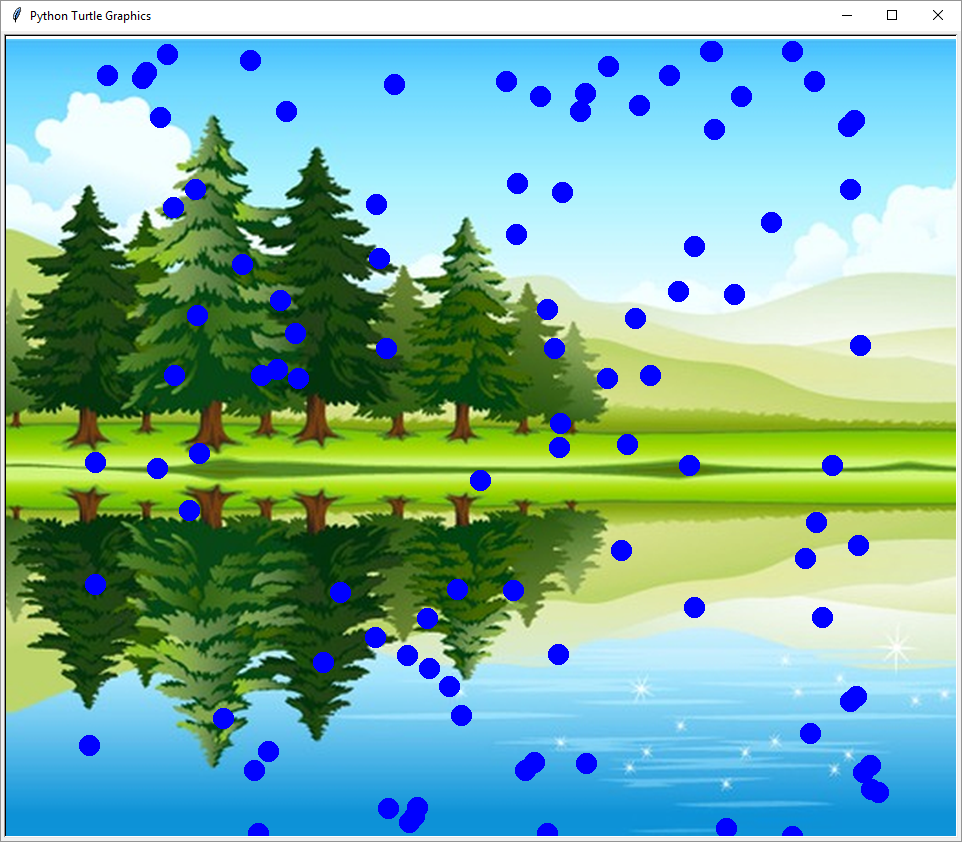
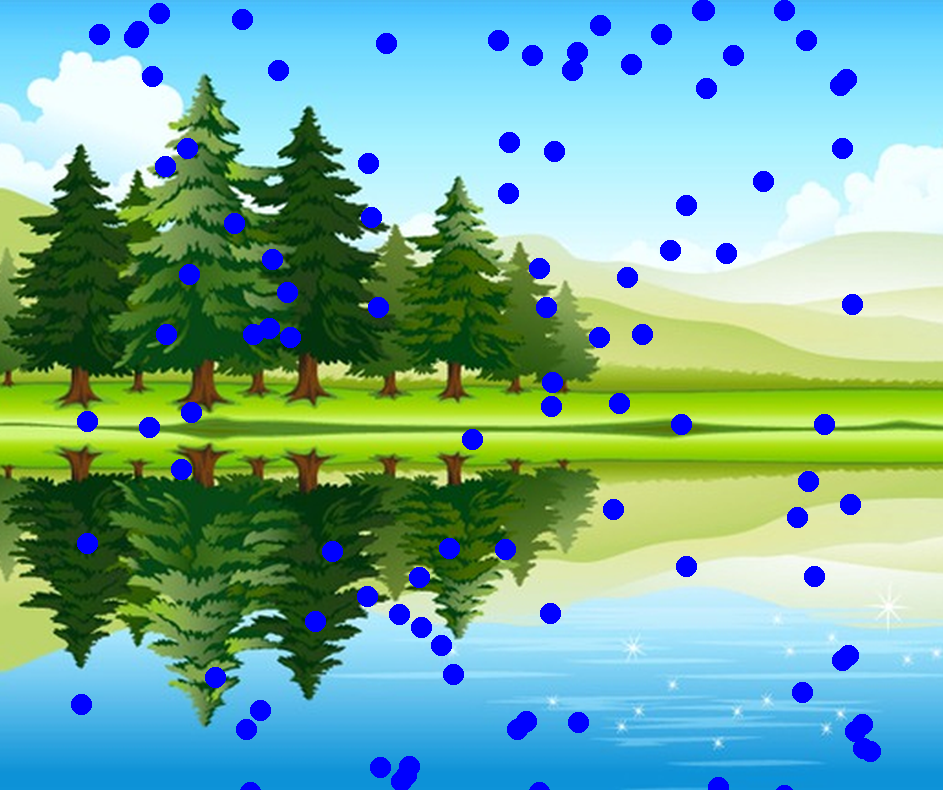
Current turtle sheet

diff --git a/python/turtle-sessions/css/turtle-sheets.css b/python/turtle-sessions/css/turtle-sheets.css
@@ -1,0 +1,81 @@
+/* @import "sheet.css"; */
+/* img {
+  width: 100%
+} */
+table {
+  width: 100%
+}
+table.key_info {
+  width: 100%;
+}
+table.key_info, .key_info td {
+  background-color: blue;
+  color: white;
+}
+
+@page {
+  size: A4;
+  margin: 1cm;
+  counter-increment: page;
+  content: "Page " counter(page);
+}
+@page {
+  @bottom-right {
+   content: counter(page) " of " counter(pages);
+  }
+}
+
+/* h3, h2 { page-break-before: always; } */
+pre, blockquote {page-break-inside: avoid;}
+
+
+body {
+  font-family: 'Trebuchet MS', 'Lucida Sans Unicode', 'Lucida Grande', 'Lucida Sans', Arial, sans-serif;
+}
+
+hr {
+  background: linear-gradient(to right, moccasin 0%, moccasin 15%, aquamarine 15%, aquamarine 45%, rgb(255, 115, 0) 45%, rgb(255, 115, 0) 60%, rgb(84, 67, 41) 60%);
+  height: 8px;
+  width: 100%;
+}
+
+figure img {
+  vertical-align: bottom;
+}
+figcaption {
+  vertical-align: top;
+  text-align: left;
+  font-size: xx-large;
+  color: saddlebrown;
+  font-weight: bolder;
+  display: inline;
+  margin: 0;
+  padding: 0;
+}
+figure {
+  margin: 0;
+  padding: 0;
+}
+pre {
+  font-size: 0.8em;
+}
+
+@page {
+  @bottom-center {
+    content: counter(page);
+    content: '';
+    display: block;
+    background: linear-gradient(to right, moccasin 0%, moccasin 15%, aquamarine 15%, aquamarine 45%, rgb(255, 115, 0) 45%, rgb(255, 115, 0) 60%, rgb(84, 67, 41) 60%);
+    height: 8px;
+    width: 100%;
+    margin-bottom: 60px;
+  }
+  @bottom-right {
+    content: ""
+  }
+}
+
+.page {
+  page-break-after: always;
+}
+

diff --git a/python/turtle-sessions/make-it-rain/turtle-make-it-rain.md b/python/turtle-sessions/make-it-rain/turtle-make-it-rain.md
@@ -39,7 +39,9 @@ t.hideturtle()
 t.penup()
 ```
 
-To draw a simple drop we can use a blue circle.
+Save this in a file name like `rain.py` and run it.
+
+To draw a simple drop we can use a blue circle. Add this:
 
 <img src="raindrop-blue-circle.png" style="margin:0; padding: 0; float: right; margin-right: 5%; border: 0; box-shadow: none">
 
@@ -54,7 +56,6 @@ t.stamp()
 `t.shape` changes the turtles shape, `t.goto` jumps to a set of coordinates.
 By using `t.stamp`, we can leave behind a stamp, an image of the turtles current shape on the canvas where it stands.
 
-Try running this.
 
 ## Drawing multiple drops
 
@@ -256,11 +257,31 @@ while True:
 
 <!-- -- id="ideas" -->
 
+### Try adding further parameters
+
+You can try using a 3rd item in the lists - for speed, or raindrop size (t.shapesize). Let's try using it for speed.
+
+When creating the drop, we can try a number between 2 and 4:
+
+<pre><code>for n in range(100):
+    drop = [random.randint(-400, 400), random.randint(-400, 400)<b>, random.randint(2,4)</b>]
+    drops.append(drop)
+</code></pre>
+
+You can then use this 3rd parameter for speed instead of -3:
+
+<pre><code>     for drop in drops:<del>
+         drop[1] -= 3</del><b>
+         drop[1] -= drop[2]</b>
+         if drop[1] < -400:
+             drop[1] = 400
+</code></pre>
+
+This now moves different drops at different speeds, giving a feeling of depth.
+
 ### Try changing the rain drops
 
-Rain drops can be snow flakes too. Try changing the shape to a triangle, or a square. You can also change the colour.
-You can put the pen down and do standard turtle drawing commands
-You can even use GIF or PNG images.
+Rain drops can be snow flakes too. Try changing the shape to a triangle, or a square using turtle commands. You can change the colour, size, put the pen down and do standard turtle drawing commands, or even use GIF or PNG images.
 
 <pre><code>t.penup()
 <del>t.shape("circle")
@@ -275,32 +296,9 @@ def draw_drop(x, y):
 
 Now when you stamp - it will be your image instead of the circles. Happy faces? Footballs? Spaceships? Stars?
 
-### Try adding further parameters
-
-You can try using a 3rd item in the lists - for speed, or raindrop size (t.shapesize). Let's try using it for speed:
-
-When creating the drop, we can try a number between 2 and 4:
-
-<pre><code>
- for n in range(100):
-     drop = [random.randint(-400, 400), random.randint(-400, 400)<b>, random.randint(2,4) </b>]
-     drops.append(drop)
-</code></pre>
-
-You can then use this 3rd parameter for speed instead of -3:
-
-<pre><code>
-     for drop in drops:<b>
-         drop[1] -= drop[2]</b>
-         if drop[1] < -400:
-             drop[1] = 400
-</code></pre>
-
-This now moves different drops at different speeds, giving a feeling of depth.
-
 ### Background images
 
-You can use a GIF or PNG as a background image:
+You can use `turtle.bgcolor` near the top of the code to change the background colour, or you can use a GIF or PNG as a background image:
 
 <pre><code>
 import turtle
@@ -313,10 +311,20 @@ turtle.tracer(0, 0)
 t = turtle.Turtle()
 </code></pre>
 
-![Lake screenshot](inspiration-rain-lake-screenshot.png) \
+<img src="inspiration-rain-lake-screenshot.png" style="height: 200px; margin-right: 10px"><img src="inspiration-space-scene.png" style="height: 200px">
 
-You can create a rainy scene, or a snowy scene. Making the dots small with a space background could turn them into stars.
-You can make a scene with a sun, and a few clouds, and a few raindrops.
+You can create a rainy, space or snowy scenes. Making the dots small with a space background. Get creative!
+
+Stars:
+
+```python
+t.shape("circle")
+t.color("lightblue")
+turtle.bgcolor("black")
+screen = turtle.Screen()
+screen.bgpic("space-background.png")
+t.shapesize(0.1)
+```
 
 ## Turtle Colours
 
@@ -343,21 +351,25 @@ It's worth trying other colour names and seeing what works.
 
 ## Turtle reference
 
-Command                | Effect
----------------------- | ----------------------------------------------
-`t = turtle.Turtle()`  | Make a turtle called t
-`turtle.tracer(0,0)`   | Turn off tracer animation - makes it very fast
-`turtle.update()`      | Make a screen update - handy when fast
-`turtle.done()`        | Program finished, wait for window to close
-`t.clear()`            | Clear everything drawn by this turtle
-`t.speed(0)`           | Make this turtle fast
-`t.penup()`            | Pull the pen up - don't draw lines
-`t.pendown()`          | Put the pen down - draw a line
-`t.hideturtle()`       | Hide the turtle - don't draw it
-`t.goto(x, y)`         | Jump to position x, y. 0, 0 is the middle
-`t.stamp()`            | Stamp the current turtle shape
-`t.shape("shape")`     | Change shape. Try "turtle", "circle", "square"
-`t.color("color")`     | Change color. Try "red", "green", "blue"
-`t.forward(100)`       | go forward 100 pixels
-`t.left(90)`           | turn left 90 degrees
-`t.right(45)`          | turn right 45 degrees
+Command                   | Effect
+------------------------- | ----------------------------------------------
+`t = turtle.Turtle()`     | Make a turtle called t
+`turtle.tracer(0,0)`      | Turn off tracer animation - makes it very fast
+`turtle.update()`         | Make a screen update - handy when fast
+`turtle.done()`           | Program finished, wait for window to close
+`t.clear()`               | Clear everything drawn by this turtle
+`t.speed(0)`              | Make this turtle fast
+`t.penup()`               | Pull the pen up - don't draw lines
+`t.pendown()`             | Put the pen down - draw a line
+`t.hideturtle()`          | Hide the turtle - don't draw it
+`t.goto(x, y)`            | Jump to position x, y. 0, 0 is the middle
+`t.stamp()`               | Stamp the current turtle shape
+`t.shape("shape")`        | Change shape. Try "turtle", "circle", "square"
+`t.shapesize(0.1)`        | Change the size of the shape
+`t.color("color")`        | Change color. Try "red", "green", "blue"
+`t.forward(100)`          | go forward 100 pixels
+`t.left(90)`              | turn left 90 degrees
+`t.right(45)`             | turn right 45 degrees
+`turtle.bgcolor("black")` | Set the screen background to "black"
+`turtle.window_height()`  | Get the height of the window
+`turtle.window_width()`   | Get the width of the window

diff --git a/python/turtle-sessions/make-it-rain/licenses.md b/python/turtle-sessions/make-it-rain/licenses.md
@@ -1,0 +1,7 @@
+Space background is https://commons.wikimedia.org/wiki/File:Sombrero_galaxy_black_background.png.
+
+Pablo Carlos Budassi, CC BY-SA 4.0 <https://creativecommons.org/licenses/by-sa/4.0>, via Wikimedia Commons
+---
+Lake background is https://commons.wikimedia.org/wiki/File:South_Twin_Lake_image_2.jpg.
+
+DrStew82, CC BY-SA 4.0 <https://creativecommons.org/licenses/by-sa/4.0>, via Wikimedia Commons
